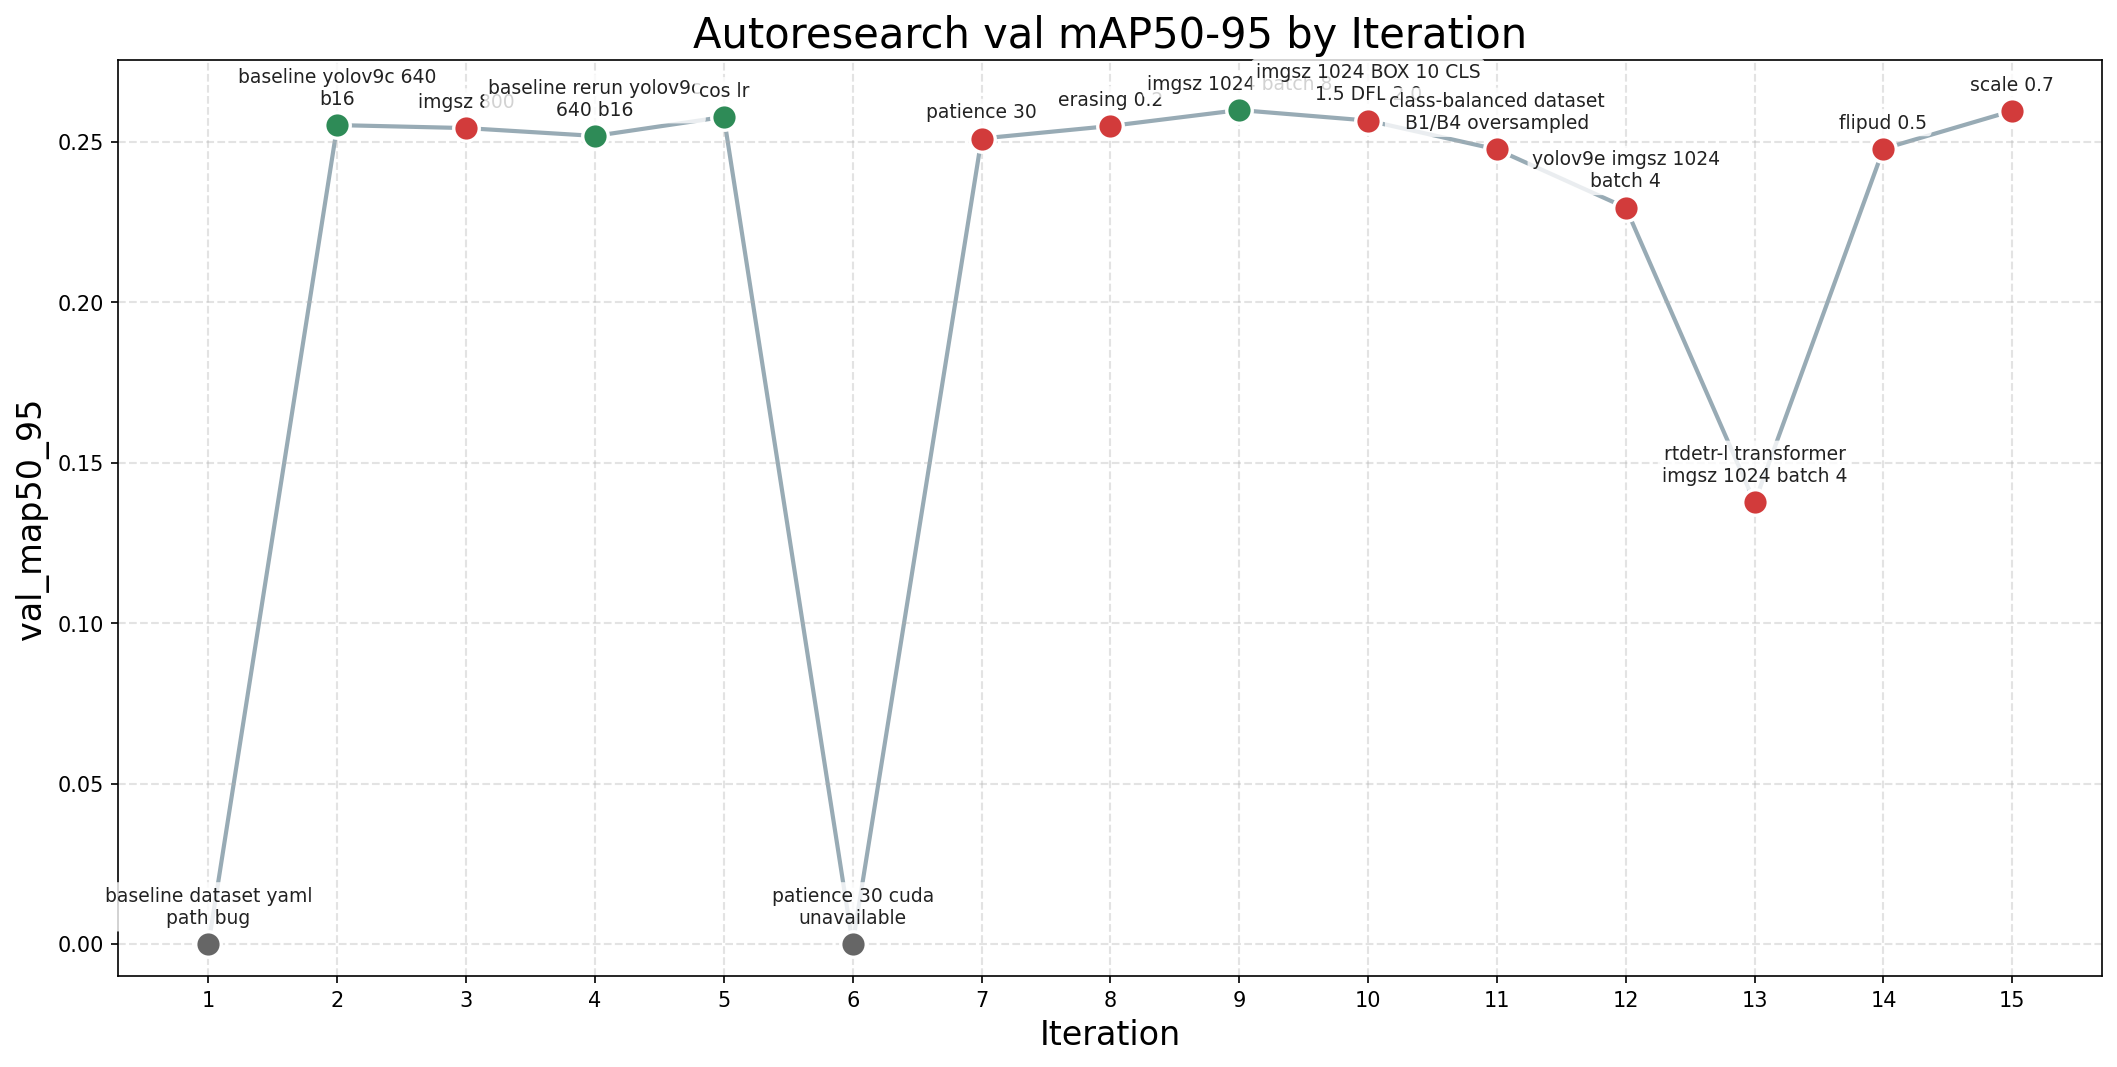
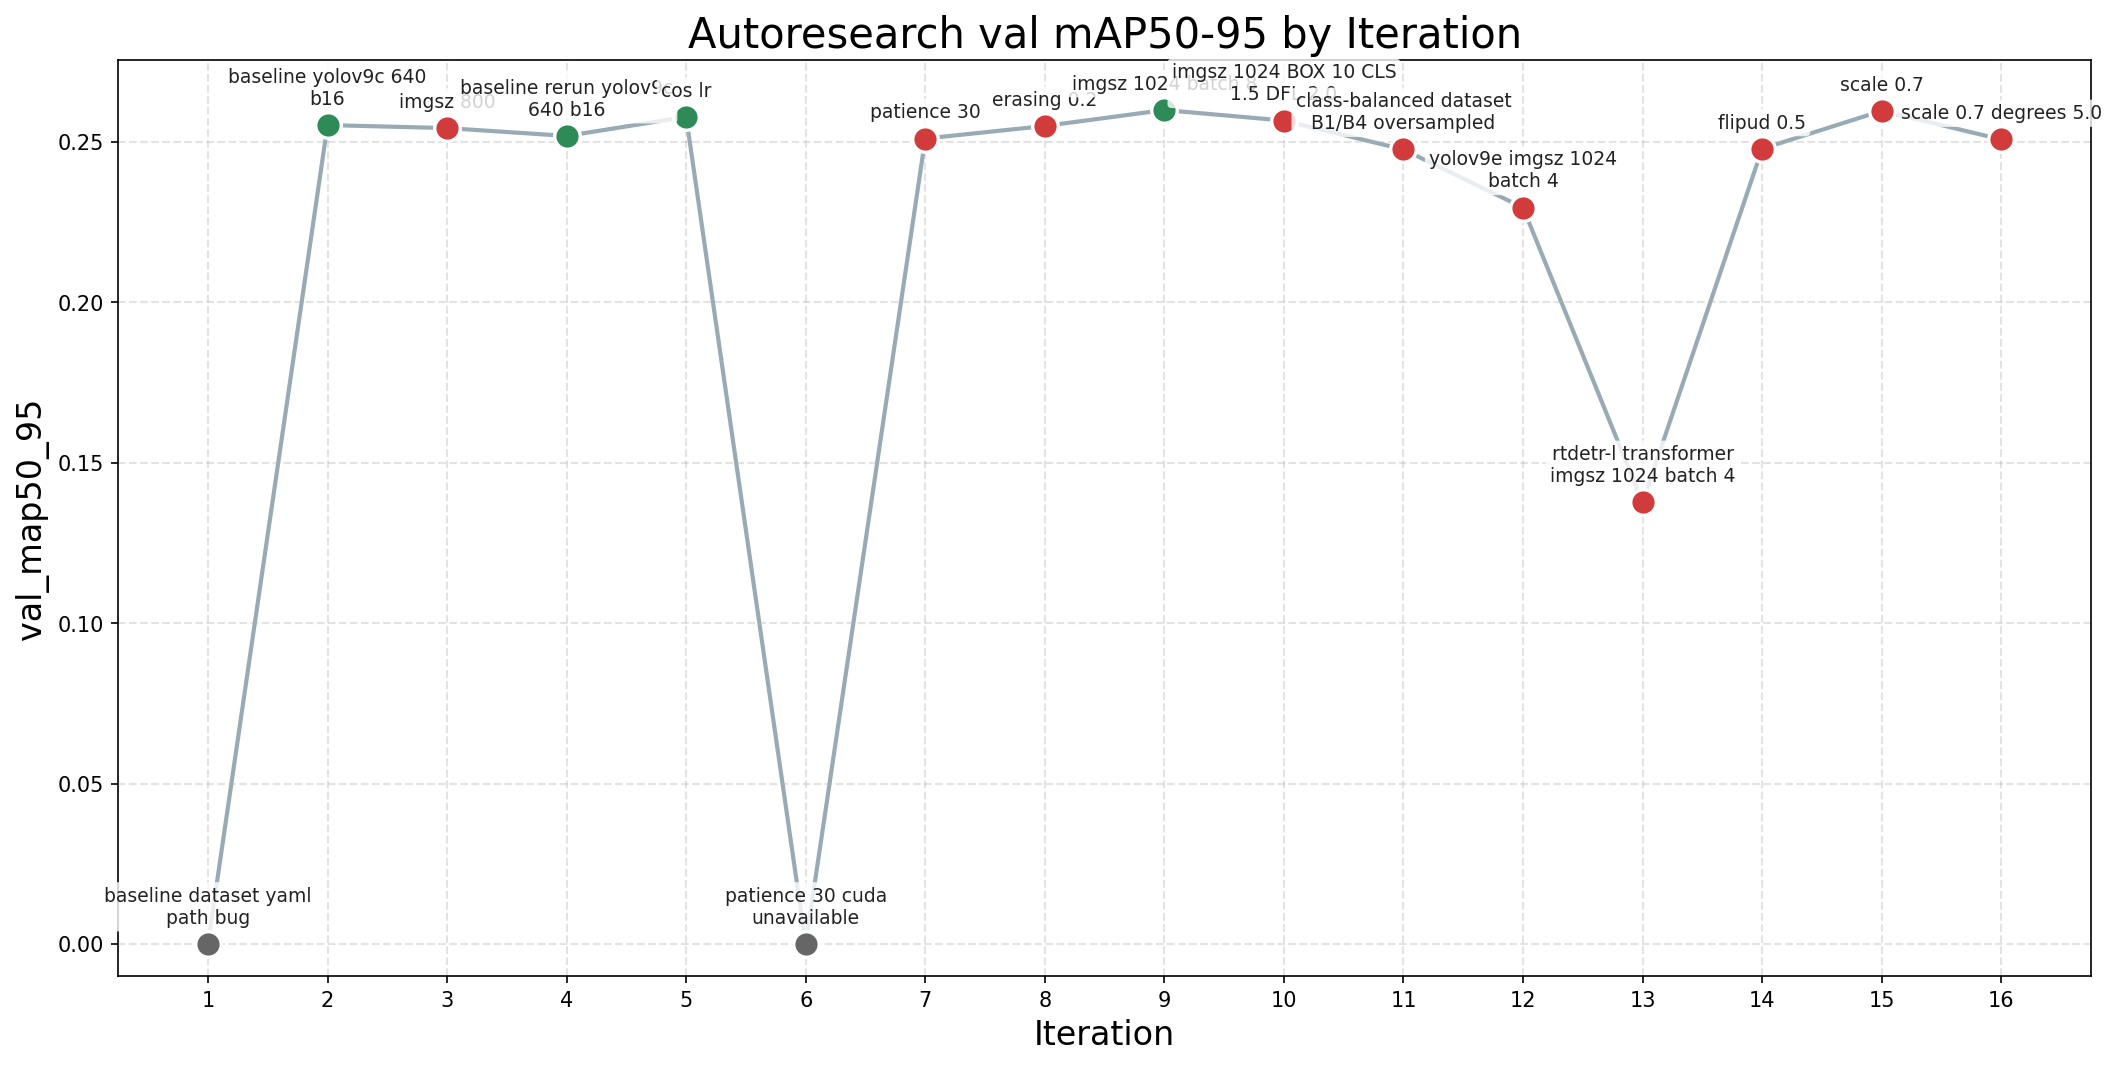
exp: seed 42 model soup step 1 + telemetry scale+degrees discard

diff --git a/train.py b/train.py
@@ -47,9 +47,9 @@ COPY_PASTE = 0.0
 HSV_H = 0.015
 HSV_S = 0.7
 HSV_V = 0.4
-DEGREES = 5.0
+DEGREES = 0.0
 TRANSLATE = 0.1
-SCALE = 0.7
+SCALE = 0.5
 SHEAR = 0.0
 PERSPECTIVE = 0.0
 FLIPUD = 0.0
@@ -65,7 +65,7 @@ DFL = 1.5
 # ── Misc ─────────────────────────────────────────────────────────────────────
 FREEZE = None  # e.g. 10 to freeze first 10 layers
 AMP = True
-SEED = 0
+SEED = 42
 
 # ══════════════════════════════════════════════════════════════════════════════
 # Training — do not change anything below this line
